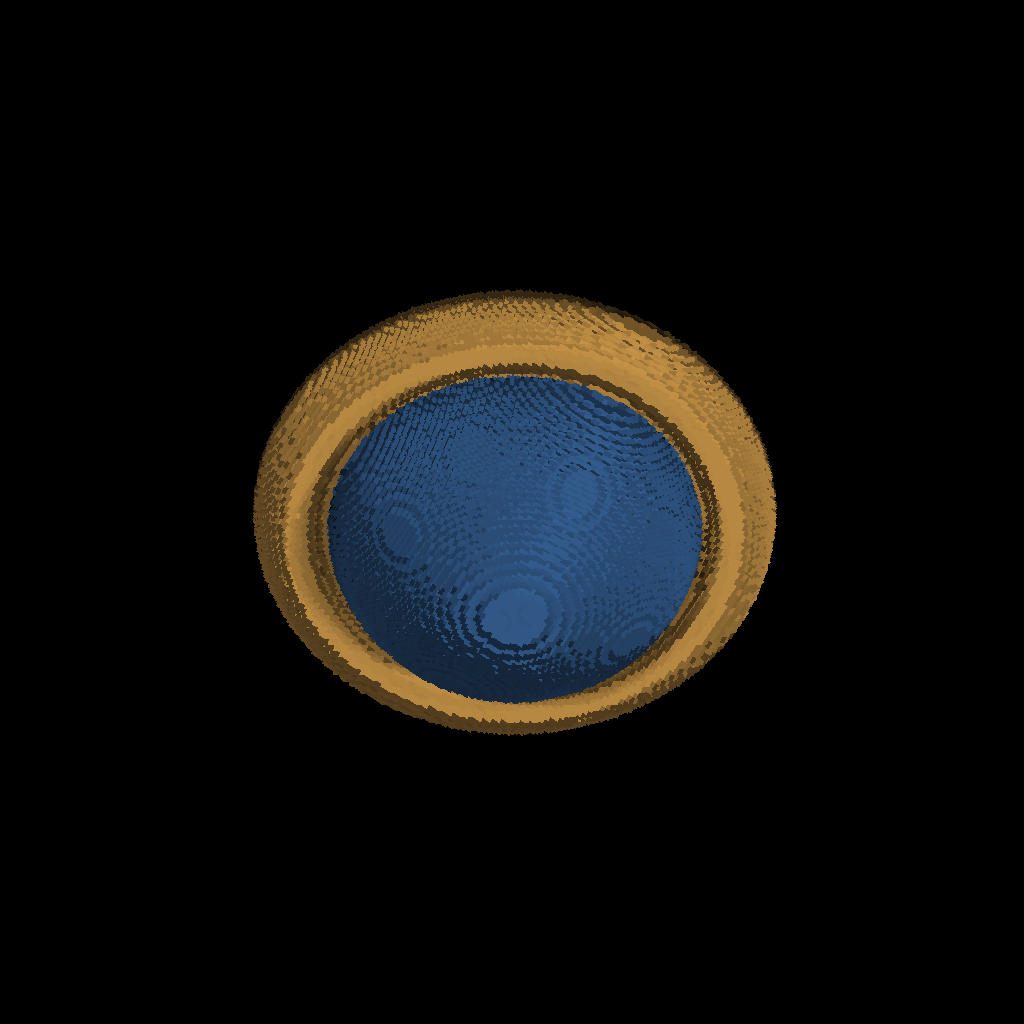
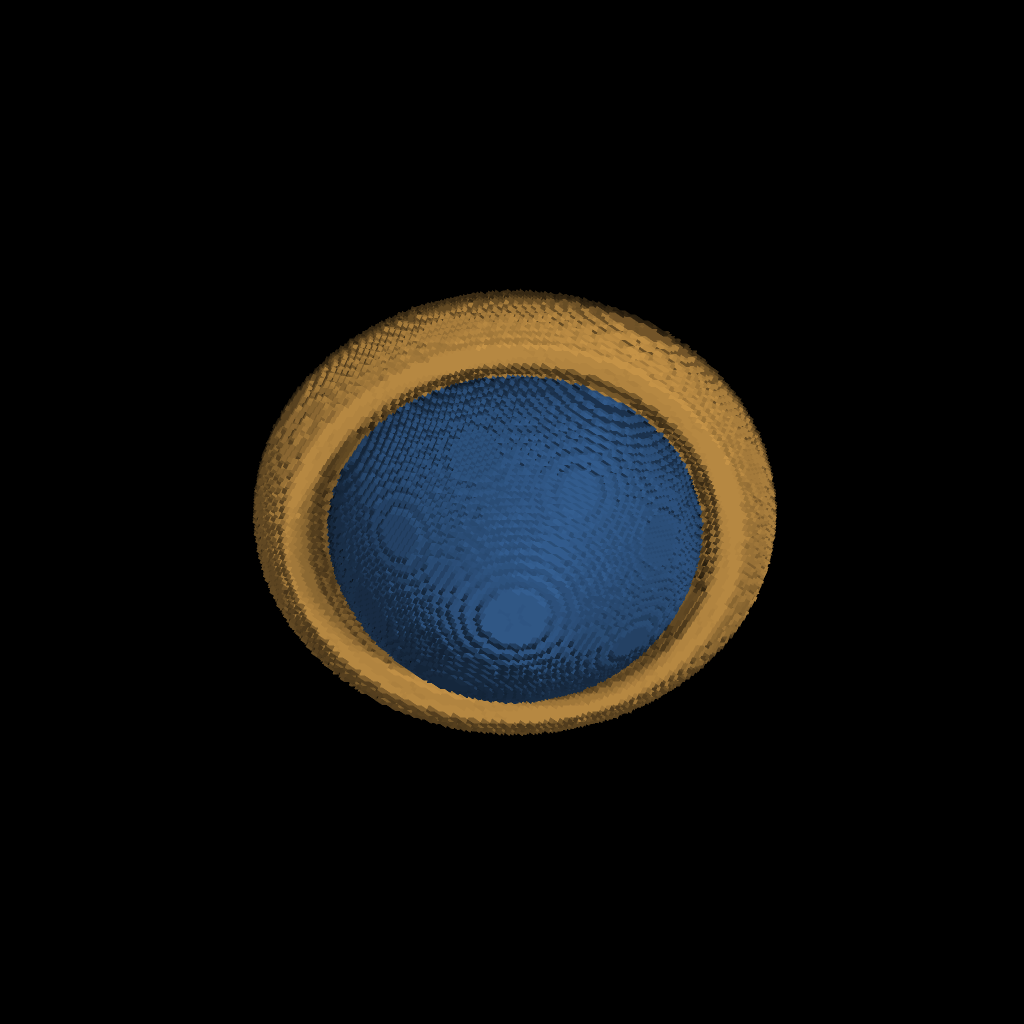
法线改三线性采样：球的体素台阶有所减轻
- wen.cpp 体彩绘制：法线梯度改为三线性插值采样（±1.5 格，8 邻域加权），
  原来直接取 ±2 格整数样本，球面会出现同心台阶
- 工具/高清AO球环.wen：1024×1024、超采样 2、遮蔽 6、软阴影 4
  渲染 13.9 秒；输出/高清1024_AO.png（198,208 字节）
- 已知残留：命中点仍按整格取整，法线在格内不变，同心细纹仍可见；
  下一步应插值命中点位置再求法线（连续着色）
- 回归：测试 182/184（跳过 2，0 失败）

diff --git a/wen.cpp b/wen.cpp
@@ -14915,9 +14915,20 @@ Interpreter::Interpreter() {
                             int s = rdpx(l, r, c, 0) + rdpx(l, r, c, 1) + rdpx(l, r, c, 2);
                             return s > 0 ? 1.0 : 0.0;
                         };
-                        double gx = solid(hl, hr, hc + 2) - solid(hl, hr, hc - 2);
-                        double gy = solid(hl, hr + 2, hc) - solid(hl, hr - 2, hc);
-                        double gz = solid(hl + 2, hr, hc) - solid(hl - 2, hr, hc);
+                        auto solidF = [&](double ql, double qr, double qc) -> double {
+                            double fl0 = std::floor(ql), fr0 = std::floor(qr), fc0 = std::floor(qc);
+                            double dl2 = ql - fl0, dr2 = qr - fr0, dc2 = qc - fc0;
+                            double acc2 = 0;
+                            for (int a2 = 0; a2 < 2; ++a2)
+                                for (int b2 = 0; b2 < 2; ++b2)
+                                    for (int c2 = 0; c2 < 2; ++c2)
+                                        acc2 += solid((long long)fl0 + a2, (long long)fr0 + b2, (long long)fc0 + c2)
+                                              * (a2 ? dl2 : 1 - dl2) * (b2 ? dr2 : 1 - dr2) * (c2 ? dc2 : 1 - dc2);
+                            return acc2;
+                        };
+                        double gx = solidF(hl, hr, hc + 1.5) - solidF(hl, hr, hc - 1.5);
+                        double gy = solidF(hl, hr + 1.5, hc) - solidF(hl, hr - 1.5, hc);
+                        double gz = solidF(hl + 1.5, hr, hc) - solidF(hl - 1.5, hr, hc);
                         double gn = std::sqrt(gx * gx + gy * gy + gz * gz);
                         double sh = 0.22;
                         if (gn > 1e-9) {
@@ -15032,9 +15043,20 @@ Interpreter::Interpreter() {
                             }
                         }
                         if (hl < 0) { continue; }
-                        double gx = solid(hl, hr, hc + 2) - solid(hl, hr, hc - 2);
-                        double gy = solid(hl, hr + 2, hc) - solid(hl, hr - 2, hc);
-                        double gz = solid(hl + 2, hr, hc) - solid(hl - 2, hr, hc);
+                        auto solidF = [&](double ql, double qr, double qc) -> double {
+                            double fl0 = std::floor(ql), fr0 = std::floor(qr), fc0 = std::floor(qc);
+                            double dl2 = ql - fl0, dr2 = qr - fr0, dc2 = qc - fc0;
+                            double acc2 = 0;
+                            for (int a2 = 0; a2 < 2; ++a2)
+                                for (int b2 = 0; b2 < 2; ++b2)
+                                    for (int c2 = 0; c2 < 2; ++c2)
+                                        acc2 += solid((long long)fl0 + a2, (long long)fr0 + b2, (long long)fc0 + c2)
+                                              * (a2 ? dl2 : 1 - dl2) * (b2 ? dr2 : 1 - dr2) * (c2 ? dc2 : 1 - dc2);
+                            return acc2;
+                        };
+                        double gx = solidF(hl, hr, hc + 1.5) - solidF(hl, hr, hc - 1.5);
+                        double gy = solidF(hl, hr + 1.5, hc) - solidF(hl, hr - 1.5, hc);
+                        double gz = solidF(hl + 1.5, hr, hc) - solidF(hl - 1.5, hr, hc);
                         double gn = std::sqrt(gx * gx + gy * gy + gz * gz);
                         double nx = 0, ny = 0, nz = 1;
                         if (gn > 1e-9) { nx = -gx / gn; ny = -gy / gn; nz = -gz / gn; }
